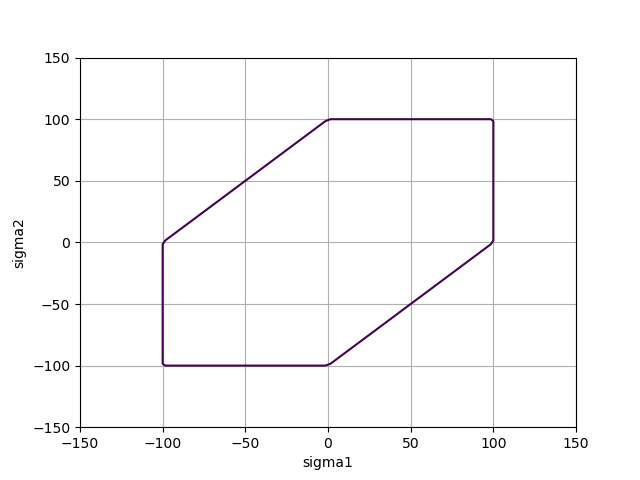
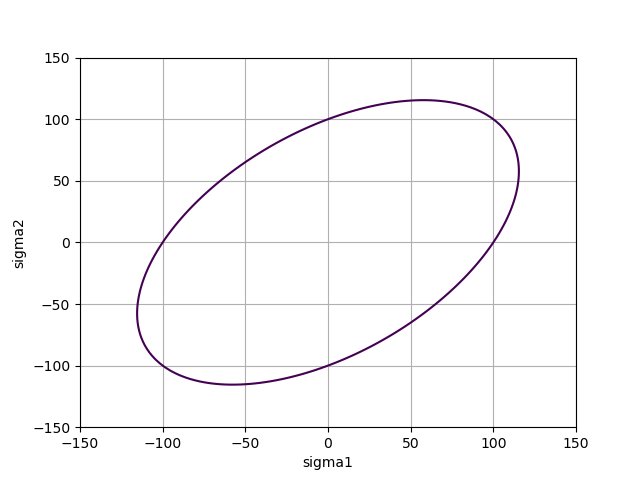
satisfied with my expressions now, will implement in fortran next

diff --git a/project/python/hershey.py b/project/python/hershey.py
@@ -33,15 +33,8 @@ def invJ2(s):
     s23 = s[4]
     s31 = s[5]
     J2 = (
-        s11**2 / 3
-        - s11 * s22 / 3
-        - s11 * s33 / 3
-        + s12**2
-        + s22**2 / 3
-        - s22 * s33 / 3
-        + s23**2
-        + s31**2
-        + s33**2 / 3
+        0.5 * (s11**2 + s22**2 + s33**2 + 2 * (s12**2 + s23**2 + s31**2))
+        - 1.0 / 6 * (s11 + s22 + s33) ** 2
     )
     assert J2 >= 0
     return J2
@@ -128,6 +121,10 @@ def herhsey(s1, s2, s3):
 
 def hershey_s(s):
     assert s.shape == (6,)
+
+    # J2 = invJ2(s)
+    # return np.sqrt(3 * J2)
+
     s1 = sp1(s)
     s2 = sp2(s)
     s3 = sp3(s)
@@ -138,16 +135,19 @@ def finite_diff(s, i):
     assert s.shape == (6,)
     assert i >= 0 and i < 6
     hfrac = 1e-5
-    sp = np.zeros_like(s)
-    sp[:] = s
-    h = sp[i] * hfrac
+    h = s[i] * hfrac
     import sys
 
     if h == 0:
-        h = 10 * sys.float_info.epsilon
-    sp[i] = sp[i] + h
-    # print("i", i, "sp", sp, "s", s, "h", h)
-    return (hershey_s(sp) - hershey_s(s)) / h
+        h = 100 * sys.float_info.epsilon
+
+    sp = np.zeros_like(s)
+    sp[:] = s[:]
+    sp[i] = s[i] + h
+    sm = np.zeros_like(s)
+    sm[:] = s[:]
+    sm[i] = s[i] - h
+    return (hershey_s(sp) - hershey_s(sm)) / (2 * h)
 
 
 def dphids_numerical(s):
@@ -221,9 +221,10 @@ def dherhseyds(s):
     sdev = s_dev(s)
     J3 = invJ3(s)
     dJ3ds = dinvJ3ds(s)
-    kronecker = np.array([1, 1, 1, 0, 0, 0])
+    kronecker = np.array([1, 1, 1, 0, 0, 0], dtype=float)
 
     if thetaL > tol and thetaL < np.pi / 3 - tol:
+        print("ORDINARY CASE")
         u = 0.5 * (A**m + B**m + C**m)
         dphids1 = 0.5 * u ** (1.0 / m - 1) * (A ** (m - 1) + C ** (m - 1))
         dphids2 = 0.5 * u ** (1.0 / m - 1) * (-(A ** (m - 1)) + B ** (m - 1))
@@ -249,22 +250,36 @@ def dherhseyds(s):
             + sdev / np.sqrt(3 * J2) * np.cos(2 * np.pi / 3 + thetaL)
             - 2 * np.sqrt(J2) / np.sqrt(3) * np.sin(2 * np.pi / 3 + thetaL) * dthetaLds
         )
-        print("A", A)
-        print("B", B)
-        print("C", C)
+        print("dlodeds", dthetaLds)
+        sum_angles = (
+            np.cos(thetaL)
+            + np.cos(2 * np.pi / 3 - thetaL)
+            + np.cos(2 * np.pi / 3 + thetaL)
+        )
+        sum_angles_weighted = (
+            np.cos(thetaL) * dphids1
+            + np.cos(2 * np.pi / 3 - thetaL) * dphids2
+            + np.cos(2 * np.pi / 3 + thetaL) * dphids3
+        )
+
+        print("sum angles = ", sum_angles)
+        print("sum angles weighted", sum_angles_weighted)
+        # print("A", A)
+        # print("B", B)
+        # print("C", C)
         print("dphids1", dphids1)
         print("dphids2", dphids2)
         print("dphids3", dphids3)
         return dphids1 * ds1ds + dphids2 * ds2ds + dphids3 * ds3ds
 
     else:
+        print("SINGULARITY")
         # Singularity: Must be handled in a special way
+        a = 3.0 / 2 * sdev / np.sqrt(3 * J2)
+        b = 3.0 / 2 * J3 * J2 ** (-2) * sdev - dJ3ds / J2
         if thetaL < tol:
-            a = 3.0 / 2 * sdev / np.sqrt(3 * J2)
-            b = 3.0 / 2 * J3 * J2 ** (-2) * sdev - dJ3ds / J2
-
             # seems that this expression (b) goes to 0 in this case
-            # not sure why
+            # not sure why:
             assert np.linalg.norm(b) < tol
             assert abs(A - C) < tol and abs(B) < tol
             return a - 1.0 / 3 * b

diff --git a/project/python/test-hershey2.py b/project/python/test-hershey2.py
@@ -1,0 +1,77 @@
+from hershey import *
+
+if __name__ == "__main__":
+    ##################################################
+    ### Testing thegradient of the yield function
+    ##################################################
+
+    ##################################################
+    ### Running multiple random cases and comparing
+    ### with numerical differentiation
+    ##################################################
+
+    N_STRESS_SAMPLES = 10000
+    S_RANGE = 200.0
+    for i in range(N_STRESS_SAMPLES):
+        s11 = random.uniform(-S_RANGE, S_RANGE)
+        s22 = random.uniform(-S_RANGE, S_RANGE)
+        s33 = random.uniform(-S_RANGE, S_RANGE)
+        s12 = random.uniform(-S_RANGE, S_RANGE)
+        s23 = random.uniform(-S_RANGE, S_RANGE)
+        s31 = random.uniform(-S_RANGE, S_RANGE)
+
+        # s11 = 10
+        # s22 = 20
+        # s33 = 30
+        # s12 = 40
+        # s23 = 50
+        # s31 = 60
+        s = np.array([s11, s22, s33, s12, s23, s31], dtype=float)
+
+        dphids = dherhseyds(s)
+        dphids_num = dphids_numerical(s)
+        diff = dphids - dphids_num
+        error_tol = 1e-8
+        tol = 1e-8
+
+        assert m == 2
+        sdev = s_dev(s)
+        dphids_exact = 3.0 / (2 * np.sqrt(3 * invJ2(s))) * sdev
+        diff = dphids - dphids_exact
+
+        error = np.linalg.norm(diff) / (np.linalg.norm(dphids_num))
+        if error > error_tol:
+            print("Failed for i =", i)
+            print("s = ", s)
+            print("Lode = ", Lode(s))
+            print("dphids =", dphids)
+            print("dphids_num =", dphids_num)
+            print("diff =", diff)
+            print("ratio:", dphids / dphids_num)
+            print("error =", error)
+            print("tol =", error_tol)
+
+            sdev = s_dev(s)
+            print("sdev", sdev)
+            print("dphids/sdev", dphids / sdev)
+            print("dphids_num/sdev", dphids_num / sdev)
+
+            print("\n")
+
+            J2 = invJ2(s)
+            J2alt = 0.5 * (
+                sdev[0] ** 2
+                + sdev[1] ** 2
+                + sdev[2] ** 2
+                + 2 * (sdev[3] ** 2 + sdev[4] ** 2 + sdev[5] ** 2)
+            )
+            assert np.abs(J2 - J2alt) < tol
+
+            s1 = sp1(s)
+            s2 = sp2(s)
+            s3 = sp3(s)
+
+            print("FAILED")
+            exit(1)
+
+        # break

diff --git a/project/python/test-hershey1.py b/project/python/test-hershey1.py
@@ -10,8 +10,11 @@ if __name__ == "__main__":
     ### at singularities
     ##################################################
 
+    ##################################################
+    ### Lode = 0
+    ##################################################
     tol = 1e-5
-    print("uniaxial tension/biaxial compression")
+    print("\nuniaxial tension/biaxial compression:")
     s11 = 100.0
     s22 = -10.0
     s33 = -10.0
@@ -25,7 +28,6 @@ if __name__ == "__main__":
 
     dphids0_numerical = dphids_numerical(s)
     print("dphids0_numerical", dphids0_numerical)
-
     dphids0 = dherhseyds(s)
     print("dphids0 =", dphids0)
 
@@ -33,6 +35,43 @@ if __name__ == "__main__":
     s11 = 100.0
     s22 = -10.001
     s33 = -9.999
+    s12 = 0.0
+    s23 = 0.0
+    s31 = 0.0
+    s = np.array([s11, s22, s33, s12, s23, s31])
+    thetaL = Lode(s)
+    print("Lode =", thetaL)
+    assert thetaL > tol
+    dphids1 = dherhseyds(s)
+    print("dphids1 =", dphids1)
+    ddphids = dphids1 - dphids0
+    print("difference =", ddphids)
+
+    ##################################################
+    ### Lode = 1
+    ##################################################
+
+    print("\n\nuniaxial compression/biaxial tension:")
+    s11 = 10.0
+    s22 = 10.0
+    s33 = -100.0
+    s12 = 0.0
+    s23 = 0.0
+    s31 = 0.0
+    s = np.array([s11, s22, s33, s12, s23, s31])
+    thetaL = Lode(s)
+    print("Lode =", thetaL)
+    assert thetaL > np.pi / 3 - tol
+
+    dphids0_numerical = dphids_numerical(s)
+    print("dphids0_numerical", dphids0_numerical)
+    dphids0 = dherhseyds(s)
+    print("dphids0 =", dphids0)
+
+    # creating a small perturbation
+    s11 = 10.01
+    s22 = 9.99
+    s33 = -100.0
     s12 = 0.0
     s23 = 0.0
     s31 = 0.0
